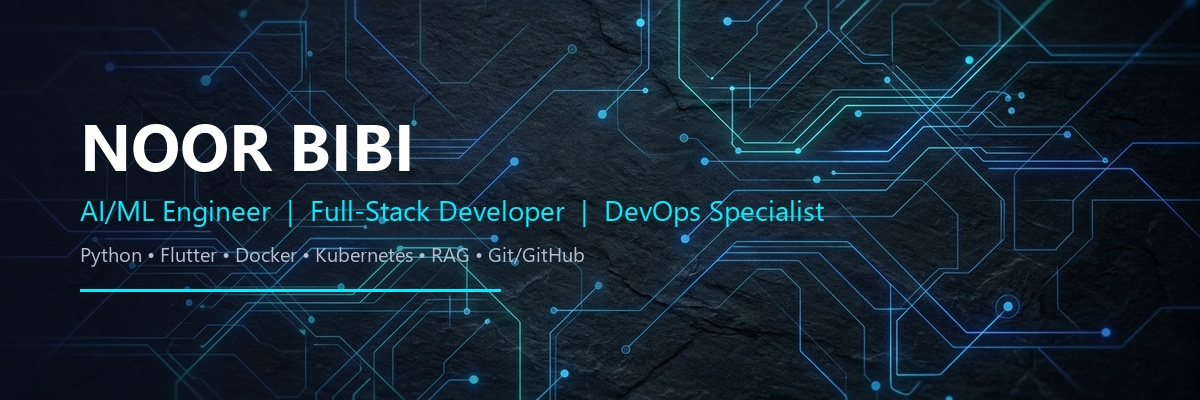
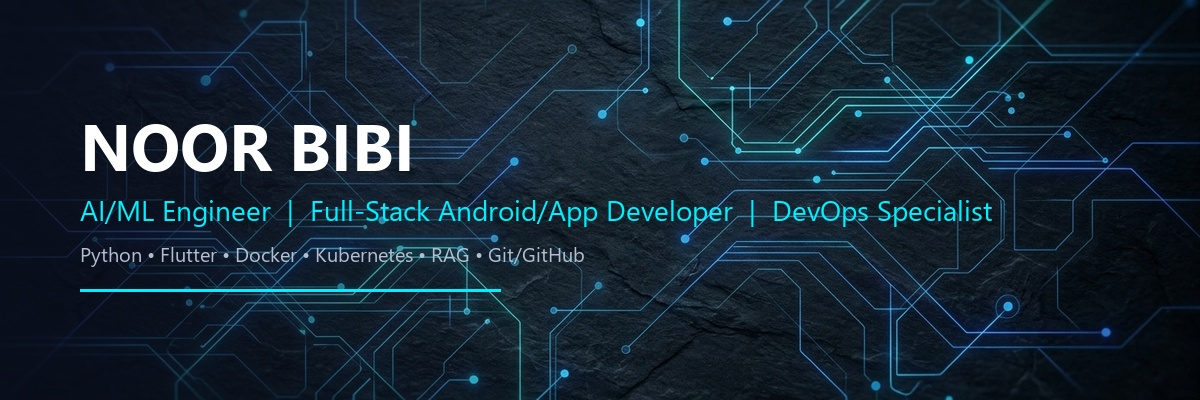
Update profile header to Full-Stack Android/App Developer, add CUE in-progress project, and add local stats generator workflow

Changed region(s): [[0.3392, 0.48, 0.8325, 0.57]]

diff --git a/README.md b/README.md
@@ -8,7 +8,7 @@
 
 <div align="center">
   <h3>👋 Hello, I'm Noor Bibi</h3>
-  <p><strong>AI/ML Engineer | Full-Stack Developer | Mobile Application Developer</strong></p>
+  <p><strong>AI/ML Engineer | Full-Stack Android/App Developer | Mobile Application Developer</strong></p>
   <p>📍 Lahore, Pakistan</p>
 </div>
 
@@ -16,7 +16,7 @@
 
 ### 📖 About Me
 
-I am an **AI/ML Engineer, Full-Stack Developer, and Mobile Application Developer** with hands-on experience designing intelligent applications, containerized microservices, and automated CI/CD pipelines. I specialize in building and deploying machine learning models, designing Retrieval-Augmented Generation (RAG) architectures, and orchestrating scalable, cloud-native deployments.
+I am an **AI/ML Engineer, Full-Stack Android/App Developer, and Mobile Application Developer** with hands-on experience designing intelligent applications, containerized microservices, and automated CI/CD pipelines. I specialize in building and deploying machine learning models, designing Retrieval-Augmented Generation (RAG) architectures, and orchestrating scalable, cloud-native deployments.
 
 My work bridges the gap between AI development and modern software engineering, focusing on creating high-performance, containerized applications backed by robust CI/CD automation.
 
@@ -70,6 +70,16 @@ My work bridges the gap between AI development and modern software engineering, 
 
 ---
 
+### 🚧 In-Progress & Upcoming Projects
+
+#### 🎵 [CUE — Context-Aware Smart Music Pairing Platform](https://github.com/noor-bibi-bi)
+*An intelligent, context-driven social music application that dynamically generates collaborative playlists based on environmental triggers.*
+- **Cross-Platform App (Flutter)**: Developed the mobile client integrating secure token storage (`flutter_secure_storage`), crash reporting (`sentry_flutter`), and high-performance interactive animations using **Rive**.
+- **REST Backend (FastAPI)**: Built a modular FastAPI server supported by **PostgreSQL** migrations (orchestrated with **Alembic**) and Docker containerization.
+- **Context-Aware Matcher Engine**: Designed a playlist matching pipeline integrating **Spotify APIs** and **Google APIs (Calendar, OAuth)** to adjust musical mood parameters (valence, tempo) dynamically using real-time factors like local weather and calendar density.
+
+---
+
 ### 📂 Featured Projects
 
 #### 🌟 Atelier — AI-Based Personal Styling Application *(Final Year Project)*
@@ -106,16 +116,18 @@ My work bridges the gap between AI development and modern software engineering, 
 ### 📊 GitHub Activity & Stats
 
 <div align="center">
-  <img src="https://github-readme-stats-anuraghazra.vercel.app/api?username=noor-bibi-bi&show_icons=true&theme=tokyonight&count_private=true&cache_seconds=86400" height="195" alt="GitHub Stats" />
+  <img src="./profile-summary-card-output/tokyonight/0-profile-details.svg" width="400" alt="GitHub Profile Details" />
   &nbsp;&nbsp;
-  <img src="https://github-readme-stats-anuraghazra.vercel.app/api/top-langs/?username=noor-bibi-bi&layout=compact&theme=tokyonight&hide=html,css&cache_seconds=86400" height="195" alt="Top Languages" />
+  <img src="./profile-summary-card-output/tokyonight/1-repos-per-language.svg" width="400" alt="GitHub Repos Per Language" />
 </div>
 
 <div align="center">
-  <img src="https://streak-stats.demolab.com/?user=noor-bibi-bi&theme=tokyonight&cache_seconds=86400" height="195" alt="GitHub Streak" />
+  <img src="./profile-summary-card-output/tokyonight/3-stats.svg" width="400" alt="GitHub Stats" />
+  &nbsp;&nbsp;
+  <img src="./profile-summary-card-output/tokyonight/4-top-languages.svg" width="400" alt="GitHub Top Languages" />
 </div>
 
-> *Note: If GitHub Stats images are not loading, they may be rate-limited by the public server. You can view my live stats directly on my profile.*
+> *Note: These stats cards are generated securely and statically inside this repository using a GitHub Actions runner. If they are not visible yet, they will render as soon as the initial workflow run completes.*
 
 ---
 
